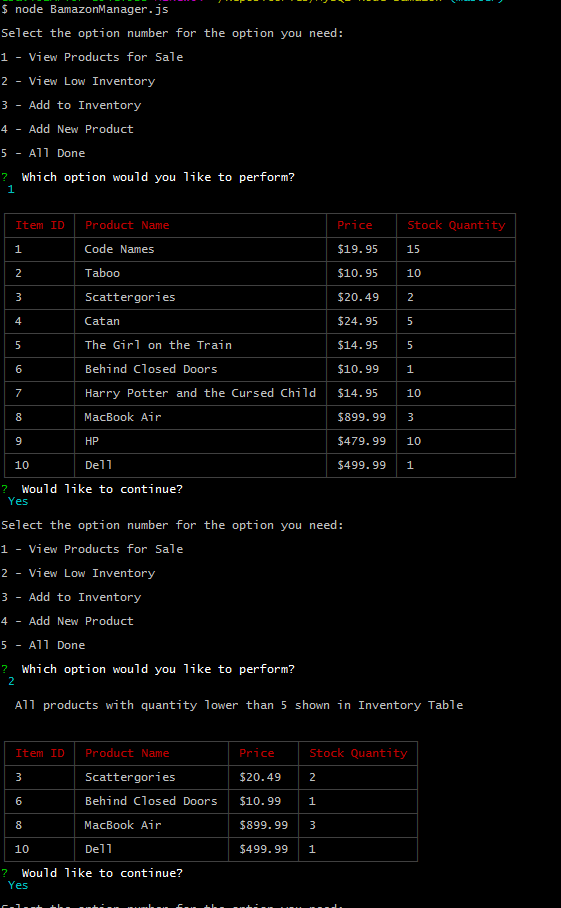
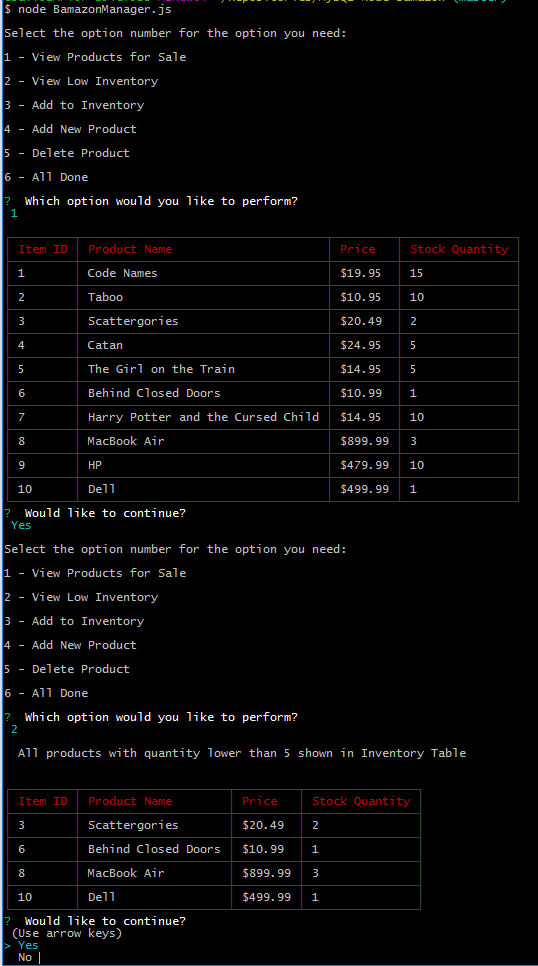
updated images with new delete option added

diff --git a/BamazonManager.js b/BamazonManager.js
@@ -10,7 +10,7 @@ var connection = mysql.createConnection({
     host: 'localhost',
     port: 3306,
     user: 'root',
-    password: '', //your mysql workbench password goes here
+    password: 'christi', //your mysql workbench password goes here
     database:  'bamazon'
 });
 

diff --git a/README.md b/README.md
@@ -1,5 +1,5 @@
 # MySQL-Node-Bamazon
-Amazon-like storefront using MySQL and Node.js. It is comprised of two apps - one for customer orders and one for manager actions. Uses basic functions of persistant storage. CRUD database operations used -  INSPECT, SELECT, and UPDATE SQL queries. Used an exported constructor file to display the inventory in both bamazonCustomer.js and bamazonManager.js
+Amazon-like storefront using MySQL and Node.js. It is comprised of two apps - one for customer orders and one for manager actions. Uses basic functions of persistant storage. All 4 CRUD database operations used -  INSPECT, SELECT, UPDATE and DELETE SQL queries. Used an exported constructor file to display the inventory in both bamazonCustomer.js and bamazonManager.js
 
 BamazonCustomer:
 * displays a table with the inventory
@@ -58,9 +58,15 @@ BamazonManager - allows a manager to:
 ![Alt text](/images/manager2.PNG?raw=true "Photo of the command line interface showing manager option selected and response")
 
 #### Screenshot 3 -
+* Delete a product option - prompt Manager for Id of product to delete, DELETE query used 
 * All Done option - terminates connection to database using connection.end() for a clean end to database connection and Node.js app (no need for cntl C)
 
-![Alt text](/images/manager3.PNG?raw=true "Photo of the command line interface showing manager option to finish and connection ended cleanly")
+![Alt text](/images/manager3.PNG?raw=true "Photo of the command line interface showing final manager option - All Done. With this option connection ends cleanly")
+
+#### Screenshot 4 - 
+* Prompt Manager to continue, Manager chooses "No" and connection.end() used for a clean end to database connectionand Node.js app (no need for cntl C)
+
+![Alt text](/images/manager4.PNG?raw=true "Photo of the command line interface showing manager choosing to finish and connection ends cleanly")
 
 # Technologies Used
 #### The following technologies and tools were used
